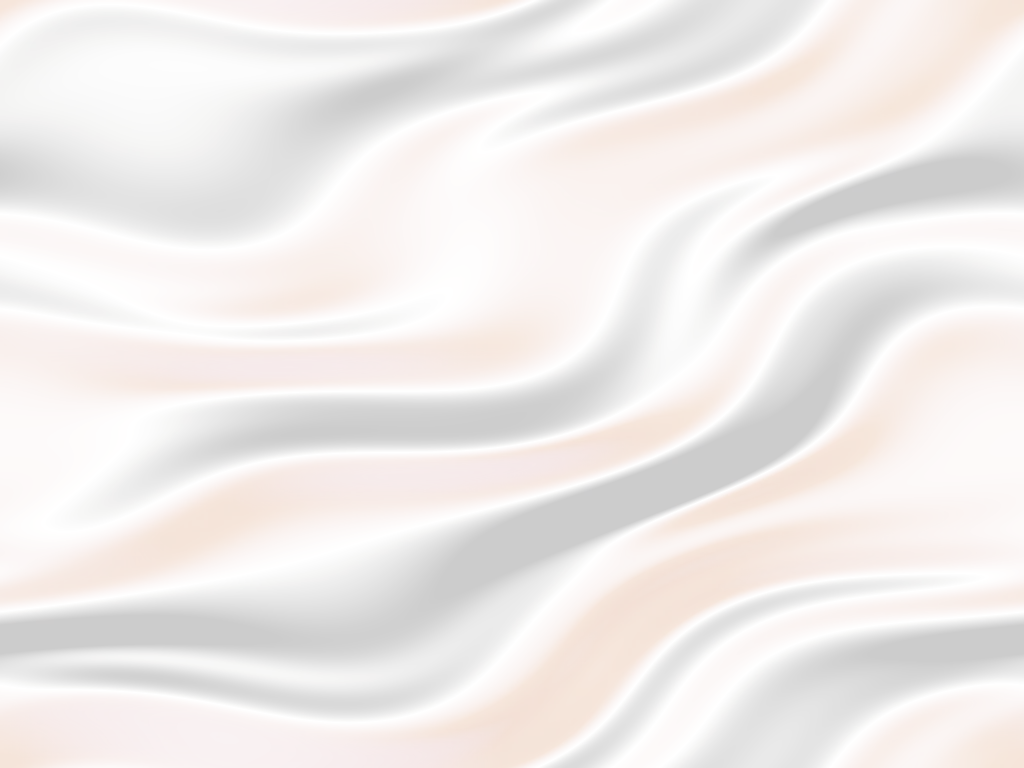
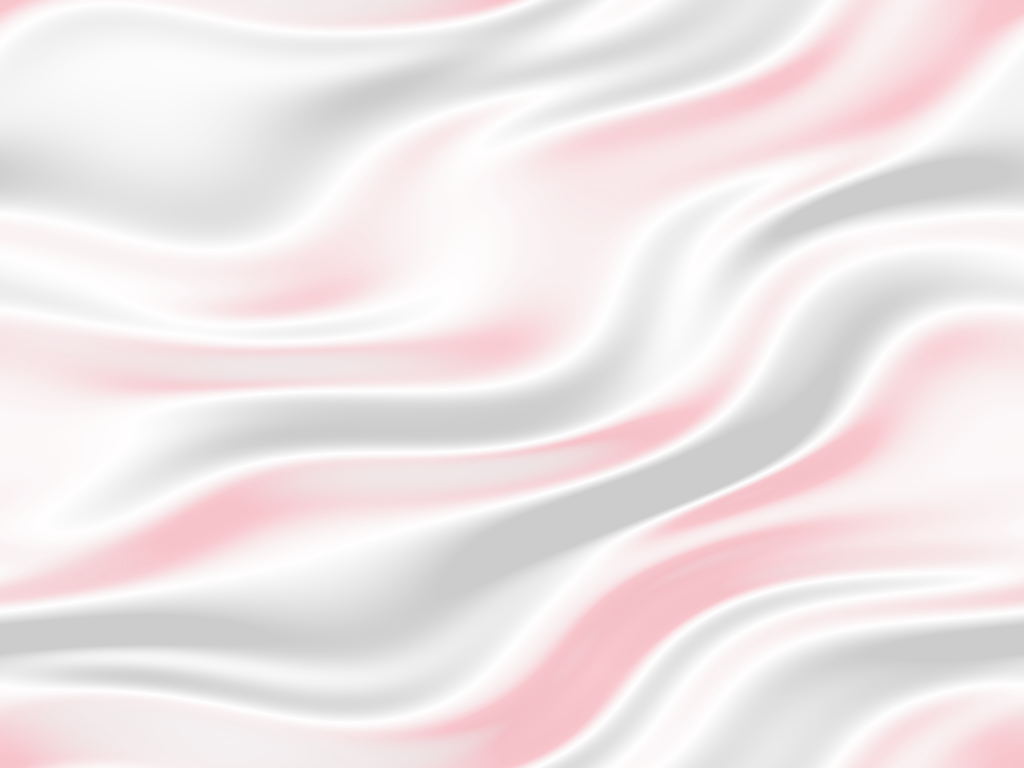
Silk theme: red and black satin maroon, red sheen replaces tan
Claude-Session: https://claude.ai/code/session_01FtCtiv9nNjj6ryYJKUYZu9

diff --git a/bud-and-things/prototype/index.html b/bud-and-things/prototype/index.html
@@ -28,7 +28,7 @@
 :root[data-skin="evening"] { --ivory: #12142B; --plaster: #1A1D3A; --linen: #1D2040; --sand: #2E3260; --sand2: #252950; --card: #171A33; --caramel: #C99A6C; --terra: #E2B45C; --terra-ink: #E2B45C; --olive: #B9C38A; --choc: #F1EDE4; --choc2: #C2C0D6; --line: #2E3260; --line2: #3D4278; --glow: #7A5410; --cta: #E2B45C; --on-cta: #12142B; --ok: #B9D38A; --ok-bg: #24302A; --err-bg: #3A2236; --head-bg: rgba(18,20,43,.94); --sk-ink: #F1EDE4; --sk-ink2: #C2C0D6; --sk-accent: #E2B45C; --sk-dark: #12142B; --sk-glow: #E2B45C; --sk-cta: #E2B45C; --sk-on-cta: #12142B; color-scheme: dark; }
 
 /* Silk · Maroon & Gold: deep wine header, hero and footer over cream shop pages. Every text pair is at least 4.5:1. Gold is only ever used on maroon; on cream, labels use dark gold. The shiny logos replace the flat marks. */
-:root[data-skin="silk"] { --ivory: #F8F0E4; --plaster: #F1E4D0; --linen: #F1E4D0; --sand: #EEDFC4; --sand2: #F3E8D2; --card: #FFFFFF; --caramel: #D6A34A; --terra: #8F1834; --terra-ink: #7A1229; --olive: #7A1229; --choc: #3A0610; --choc2: #5C1F2B; --line: #E0CBB0; --line2: #C9A56F; --glow: #D6A34A; --cta: #8F1834; --on-cta: #F8F0E4; --ok: #3F5A2A; --ok-bg: #E6EBD2; --err-bg: #F5D9D9; --head-bg: #210309; --sk-ink: #3A0610; --sk-ink2: #5C1F2B; --sk-accent: #8F1834; --sk-light: #F3D79B; --sk-dark: #3A0610; --sk-glow: #D6A34A; --sk-cta: #D6A34A; --sk-on-cta: #210309; --sk-chip: rgba(248,240,228,.95); }
+:root[data-skin="silk"] { --ivory: #F8F0E4; --plaster: #F1E4D0; --linen: #F1E4D0; --sand: #EEDFC4; --sand2: #F3E8D2; --card: #FFFFFF; --caramel: #D6A34A; --terra: #8F1834; --terra-ink: #7A1229; --olive: #7A1229; --choc: #2E0410; --choc2: #5A0A1C; --line: #E0CBB0; --line2: #C9A56F; --glow: #D6A34A; --cta: #8F1834; --on-cta: #F8F0E4; --ok: #3F5A2A; --ok-bg: #E6EBD2; --err-bg: #F5D9D9; --head-bg: #1A0306; --sk-ink: #2E0410; --sk-ink2: #5A0A1C; --sk-accent: #8F1834; --sk-light: #F3D79B; --sk-dark: #2E0410; --sk-glow: #D6A34A; --sk-cta: #D6A34A; --sk-on-cta: #1A0306; --sk-chip: rgba(248,240,228,.95); }
 :root[data-skin="silk"] { --velvet: url(assets/silk/velvet.webp); }
 /* Velvet silk: a soft grain, long folds and a travelling sheen over every maroon surface. The colour underneath is unchanged, so text contrast is the same. */
 :root[data-skin="silk"] .band, :root[data-skin="silk"] .dark-band, :root[data-skin="silk"] .gh-strip, :root[data-skin="silk"] .foot-base, :root[data-skin="silk"] .note-card, :root[data-skin="silk"] .finder-side, :root[data-skin="silk"] .paths a.feel, :root[data-skin="silk"] .promo-choc, :root[data-skin="silk"] .promo-terra, :root[data-skin="silk"] .pv-bar, :root[data-skin="silk"] .proto { background-image: var(--velvet); background-size: 1024px 768px; }
@@ -39,18 +39,18 @@
 @keyframes silk-drift2 { to { background-position: 1024px 768px, 0 0; } }
 @media (prefers-reduced-motion: reduce) { :root[data-skin="silk"] .band, :root[data-skin="silk"] .dark-band, :root[data-skin="silk"] .gh-strip, :root[data-skin="silk"] .foot-base, :root[data-skin="silk"] .site-head, :root[data-skin="silk"] .site-foot { animation: none; } }
 
-:root[data-skin="silk"] .site-head { color: #F3D79B; border-bottom-color: rgba(214,163,74,.55); background: var(--velvet), linear-gradient(90deg, #210309, #3A0610); background-size: 1024px 768px, auto; }
+:root[data-skin="silk"] .site-head { color: #F3D79B; border-bottom-color: rgba(214,163,74,.55); background: var(--velvet), linear-gradient(90deg, #1A0306, #2E0410); background-size: 1024px 768px, auto; }
 :root[data-skin="silk"] .site-head .icon-btn, :root[data-skin="silk"] .site-head .nav a { color: #FBE9C2; }
 :root[data-skin="silk"] .site-head .nav a[aria-current="page"] { border-bottom-color: #D6A34A; }
-:root[data-skin="silk"] .site-head .icon-btn .count { background: #D6A34A; color: #210309; }
-:root[data-skin="silk"] .mobile-menu { background: #210309; border-top-color: rgba(214,163,74,.4); }
+:root[data-skin="silk"] .site-head .icon-btn .count { background: #D6A34A; color: #1A0306; }
+:root[data-skin="silk"] .mobile-menu { background: #1A0306; border-top-color: rgba(214,163,74,.4); }
 :root[data-skin="silk"] .mobile-menu a { color: #FBE9C2; border-bottom-color: rgba(214,163,74,.25); }
 :root[data-skin="silk"] .logo .mark.wordmark { -webkit-mask-image: none; mask-image: none; background: url(assets/silk/logo-horizontal.webp) center / contain no-repeat; width: 300px; aspect-ratio: 1400 / 320; }
 :root[data-skin="silk"] .logo .mark.monogram { background-image: url(assets/silk/leaf.webp); width: 54px; aspect-ratio: 500 / 479; }
 :root[data-skin="silk"] .mark.lockup { background-image: url(assets/silk/logo-stacked.webp); aspect-ratio: 1240 / 944; }
 :root[data-skin="silk"] .ink-light .mark.lockup, :root[data-skin="silk"] .dark-band .mark.lockup { background-image: url(assets/silk/logo-stacked.webp); }
 :root[data-skin="silk"] .mark.monogram { background-image: url(assets/silk/leaf.webp); aspect-ratio: 500 / 479; }
-:root[data-skin="silk"] .site-foot { background: var(--velvet), radial-gradient(ellipse at 85% 10%, #4a0b1c, #3A0610 55%, #210309); background-size: 1024px 768px, auto; color: #FBE9C2; border-top: 1px solid rgba(214,163,74,.55); }
+:root[data-skin="silk"] .site-foot { background: var(--velvet), radial-gradient(ellipse at 85% 10%, #3A0716, #2E0410 55%, #1A0306); background-size: 1024px 768px, auto; color: #FBE9C2; border-top: 1px solid rgba(214,163,74,.55); }
 :root[data-skin="silk"] .site-foot a, :root[data-skin="silk"] .site-foot .muted, :root[data-skin="silk"] .site-foot small { color: #FBE9C2; }
 :root[data-skin="silk"] .site-foot strong { color: #D6A34A; font-family: var(--display); letter-spacing: .06em; }
 :root[data-skin="silk"] .btn:not(.ghost):not(.light) { box-shadow: 0 4px 12px rgba(58,6,16,.22); }
@@ -107,7 +107,7 @@ button, input, select { font: inherit; color: inherit; }
 .ov-hot { outline: 2px dashed #D6A34A; outline-offset: 3px; cursor: text; background: rgba(214,163,74,.14); }
 body.editing img:not(.proto img) { cursor: pointer; outline: 2px dashed rgba(214,163,74,.0); outline-offset: -3px; }
 body.editing img:not(.proto img):hover { outline-color: #D6A34A; }
-body.editing .proto #edit-btn { background: #D6A34A; color: #210309; }
+body.editing .proto #edit-btn { background: #D6A34A; color: #1A0306; }
 .ov-sheet { position: fixed; left: 50%; bottom: 24px; transform: translateX(-50%); z-index: 70; width: min(560px, calc(100vw - 24px)); display: flex; flex-direction: column; gap: 12px; padding: 20px; background: var(--card); color: var(--choc); border: 1px solid var(--line2); box-shadow: 0 24px 60px rgba(0,0,0,.35); }
 .ov-sheet textarea { width: 100%; font: inherit; font-size: 16px; padding: 10px 12px; border: 1px solid var(--line2); background: var(--ivory); color: var(--choc); resize: vertical; }
 .ov-actions { display: flex; flex-wrap: wrap; gap: 10px; align-items: center; }
@@ -126,12 +126,12 @@ body.pv-on #save-bar { left: calc(50% - 220px); }
 #pv-panel { position: fixed; top: 0; right: 0; bottom: 0; width: 440px; z-index: 55; display: flex; flex-direction: column; background: #f3ece1; border-left: 1px solid var(--line2); }
 .pv-bar { display: flex; flex-wrap: wrap; gap: 8px; align-items: center; justify-content: space-between; padding: 10px 12px; background: var(--choc); color: #FBE9C2; }
 .pv-bar .btn.ghost { color: #FBE9C2; border-color: rgba(251,233,194,.5); background: transparent; min-height: 36px; }
-.pv-bar .btn.ghost[aria-pressed="true"] { background: #D6A34A; color: #210309; border-color: #D6A34A; }
+.pv-bar .btn.ghost[aria-pressed="true"] { background: #D6A34A; color: #1A0306; border-color: #D6A34A; }
 .pv-ctl { display: flex; flex-wrap: wrap; gap: 6px; align-items: center; }
 .pv-ctl select { min-height: 36px; padding: 0 8px; color: var(--choc); background: #fff; }
 .pv-stage { flex: 1; min-height: 0; padding: 10px; display: flex; justify-content: center; overflow: auto; }
 #pv-frame { width: 100%; height: 100%; border: 1px solid var(--line2); background: #fff; }
-body.pv-phone #pv-frame { width: 390px; max-width: 100%; border-radius: 22px; border: 8px solid #210309; }
+body.pv-phone #pv-frame { width: 390px; max-width: 100%; border-radius: 22px; border: 8px solid #1A0306; }
 .pv-note { margin: 0; padding: 6px 12px 10px; font-size: 13px; }
 body.framed .proto, body.framed #save-bar { display: none; }
 @media (max-width: 1100px) { body.pv-on { padding-right: 0; } body.pv-on #save-bar { left: 50%; } #pv-panel { left: 0; width: auto; z-index: 80; } }
@@ -586,15 +586,15 @@ body.cs main { padding-bottom: 0; }
 .soon form { width: 100%; max-width: 480px; display: flex; flex-wrap: wrap; gap: 10px; text-align: left; margin-top: 8px; }
 .soon .social { margin-top: 4px; }
 /* Silk: the Coming soon page is deep maroon velvet with gold, like the header and footer. Every text pair is at least 4.5:1. */
-:root[data-skin="silk"] .soon { background: var(--velvet), radial-gradient(ellipse at 85% 10%, #4a0b1c, #3A0610 55%, #210309); background-size: 1024px 768px, auto; color: #FBE9C2; animation: silk-drift2 70s linear infinite; }
+:root[data-skin="silk"] .soon { background: var(--velvet), radial-gradient(ellipse at 85% 10%, #3A0716, #2E0410 55%, #1A0306); background-size: 1024px 768px, auto; color: #FBE9C2; animation: silk-drift2 70s linear infinite; }
 :root[data-skin="silk"] .soon h1 { color: #FBE9C2; }
 :root[data-skin="silk"] .soon h1 em, :root[data-skin="silk"] .soon .eyebrow { color: #D6A34A; }
 :root[data-skin="silk"] .soon p, :root[data-skin="silk"] .soon label, :root[data-skin="silk"] .soon .muted, :root[data-skin="silk"] .soon #news-msg { color: #FBE9C2; }
-:root[data-skin="silk"] .soon input { background: rgba(248,240,228,.96); color: #3A0610; border-color: #D6A34A; }
-:root[data-skin="silk"] .soon .btn { background: #D6A34A; color: #210309; border-color: #D6A34A; }
+:root[data-skin="silk"] .soon input { background: rgba(248,240,228,.96); color: #2E0410; border-color: #D6A34A; }
+:root[data-skin="silk"] .soon .btn { background: #D6A34A; color: #1A0306; border-color: #D6A34A; }
 :root[data-skin="silk"] .soon .btn:hover { background: #F3D79B; border-color: #F3D79B; }
 :root[data-skin="silk"] .soon .social a { color: #FBE9C2; }
-:root[data-skin="silk"] .soon .social a:hover { background: #D6A34A; border-color: #D6A34A; color: #210309; }
+:root[data-skin="silk"] .soon .social a:hover { background: #D6A34A; border-color: #D6A34A; color: #1A0306; }
 :root[data-skin="silk"] .soon a:focus-visible, :root[data-skin="silk"] .soon .btn:focus-visible, :root[data-skin="silk"] .soon input:focus-visible { outline-color: #F3D79B; }
 @media (prefers-reduced-motion: reduce) { :root[data-skin="silk"] .soon { animation: none; } }
 /* Instagram, Pinterest, WhatsApp and email as round icon links */
@@ -3238,7 +3238,7 @@ function spark(vals) {
   return `<svg class="spark" viewBox="0 0 ${W} ${H}" width="${W}" height="${H}" aria-hidden="true" focusable="false"><polygon points="0,${H} ${line} ${W},${H}" class="spark-fill"/><polyline points="${line}" class="spark-line"/></svg>`;
 }
 // a ring for shares of a whole, with the numbers beside it
-const DONUT = ['#8B1A3A', '#D6A34A', '#B8500F', '#5E6B3A', '#3A0610', '#9A8A6A'];
+const DONUT = ['#8B1A3A', '#D6A34A', '#B8500F', '#5E6B3A', '#2E0410', '#9A8A6A'];
 function donut(rows, fmt, centre, ctr) {
   const tot = rows.reduce((a, r) => a + r[1], 0); if (!tot) return '';
   let off = 0; const R = 46, C = 2 * Math.PI * R;
@@ -3981,7 +3981,7 @@ function rgba(hex, a) { const n = parseInt(hex.slice(1), 16); return `rgba(${n >
 const SKINS = {
   signature: { name: 'Signature · Approved palette', use: 'The approved palette: ivory, sand, caramel, terracotta, olive and chocolate.', eyebrow: 'Collection 01 · Everyday Rituals', dark: true, wall: ['#C45A3A', '#8F4C33', '#7A3F2A'], floor: ['#4A3125', '#4B2E1E', '#33211A'], arch: ['#8F4C33', '#C45A3A', '#B36C49', '#C9A227'], plinth: '#FFF8ED', duskWall: '#2A1B14', duskFloor: '#1F140F', night: '#120B08', light: '255,236,210', type: '#FFF8ED', ink2: '#F3E6D6', fx: null },
   monsoon: { name: 'Monsoon · Peacock & Moss', use: 'For June to September: a deep peacock room, moss light and soft rain, made for earthy scents like Monsoon Letters.', eyebrow: 'The monsoon edit', dark: true, wall: ['#0F4C4A', '#0D4341', '#0B3A38'], floor: ['#082B29', '#072624', '#06201F'], arch: ['#0C3F3D', '#11504D', '#16605C', '#1B706B'], plinth: '#DDE9E4', duskWall: '#06201F', duskFloor: '#041716', night: '#020C0B', light: '214,236,190', type: '#C9E265', ink2: '#CFE7DE', fx: 'rain' },
-  silk: { name: 'Silk · Maroon & Gold', use: 'The maroon and gold look from the new logo: deep wine header, hero and footer, silk shine, cream shop pages with dark text. Every text pair passes 4.5:1.', eyebrow: 'Made with thought. Given with feeling.', dark: true, wall: ['#5A0C24', '#4A0A1E', '#3A0610'], floor: ['#2A0409', '#210309', '#1A0207'], arch: ['#4A0A1E', '#5E0F28', '#7A1634', '#8F1834'], plinth: '#F8F0E4', duskWall: '#210309', duskFloor: '#18020A', night: '#0E0105', light: '243,215,155', type: '#D6A34A', ink2: '#F3D79B', fx: null },
+  silk: { name: 'Silk · Maroon & Gold', use: 'The maroon and gold look from the new logo: deep wine header, hero and footer, silk shine, cream shop pages with dark text. Every text pair passes 4.5:1.', eyebrow: 'Made with thought. Given with feeling.', dark: true, wall: ['#4A0818', '#3A0716', '#2E0410'], floor: ['#1F0308', '#1A0306', '#150206'], arch: ['#3A0716', '#5A0A1C', '#6E0F2A', '#8F1834'], plinth: '#F8F0E4', duskWall: '#1A0306', duskFloor: '#12020A', night: '#0E0105', light: '243,215,155', type: '#D6A34A', ink2: '#F3D79B', fx: null },
   evening: { name: 'Evening · Indigo & Brass', use: 'For night-time browsing and dark-mode phones: an indigo room, brass light and the candle already burning.', eyebrow: 'After dark', dark: true, lit: true, wall: ['#1B1F45', '#181B3D', '#141735'], floor: ['#0F1129', '#0D0F24', '#0B0C1F'], arch: ['#14173A', '#1C2050', '#242962', '#2C3274'], plinth: '#2E3260', duskWall: '#0B0C1F', duskFloor: '#07081A', night: '#05060F', light: '226,180,92', type: '#E2B45C', ink2: '#C2C0D6', fx: 'evening' }
 };
 const LEAF = new Image();
